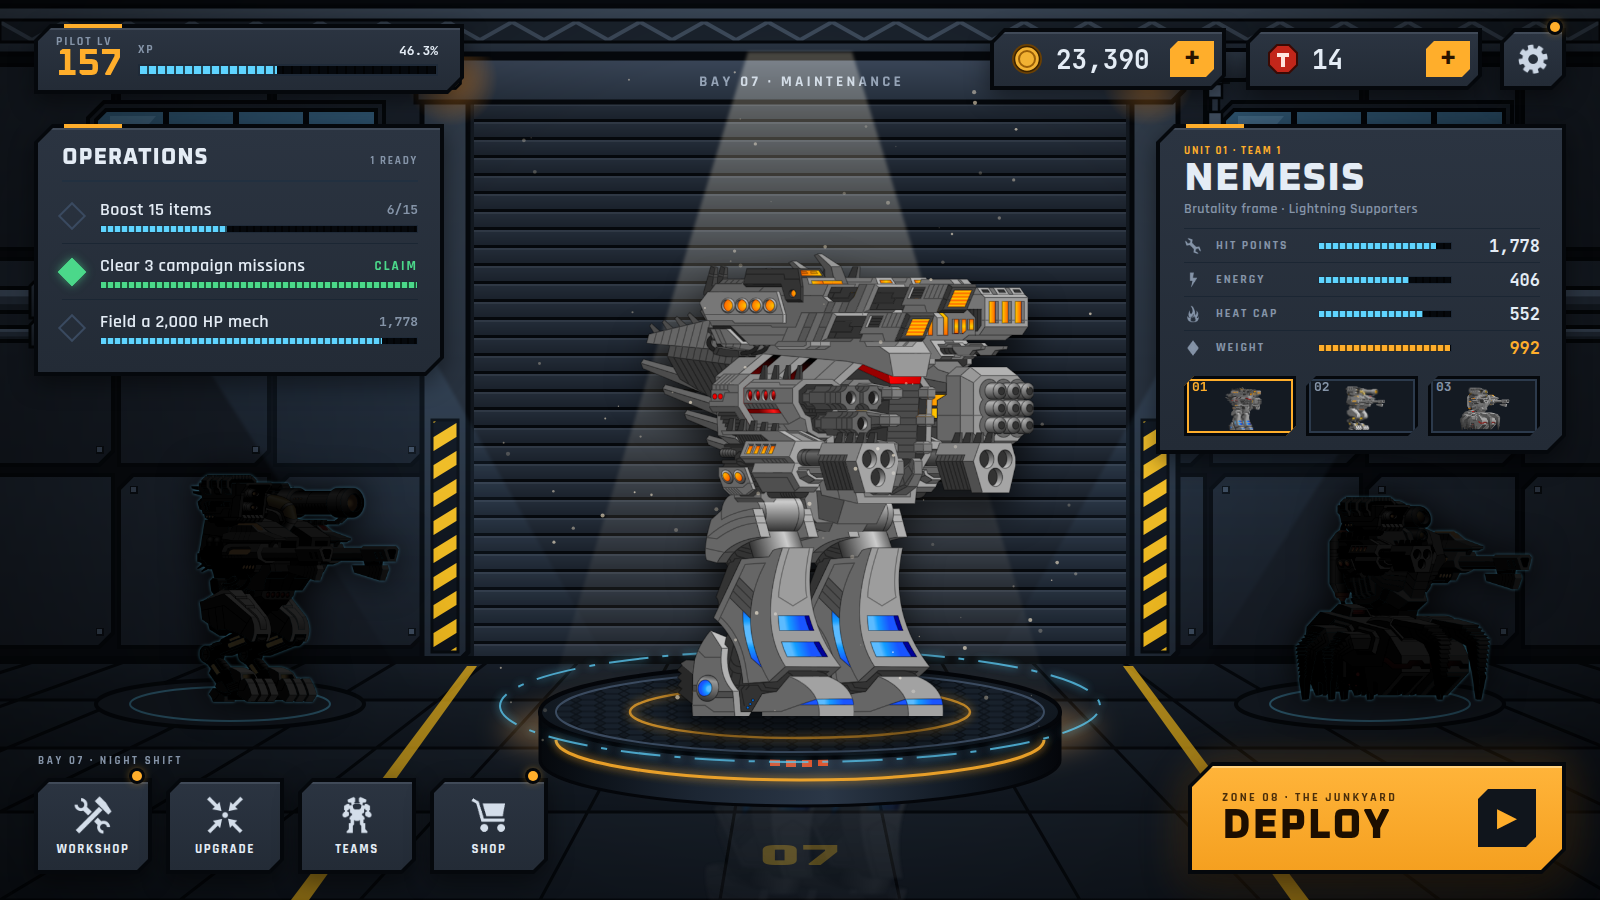
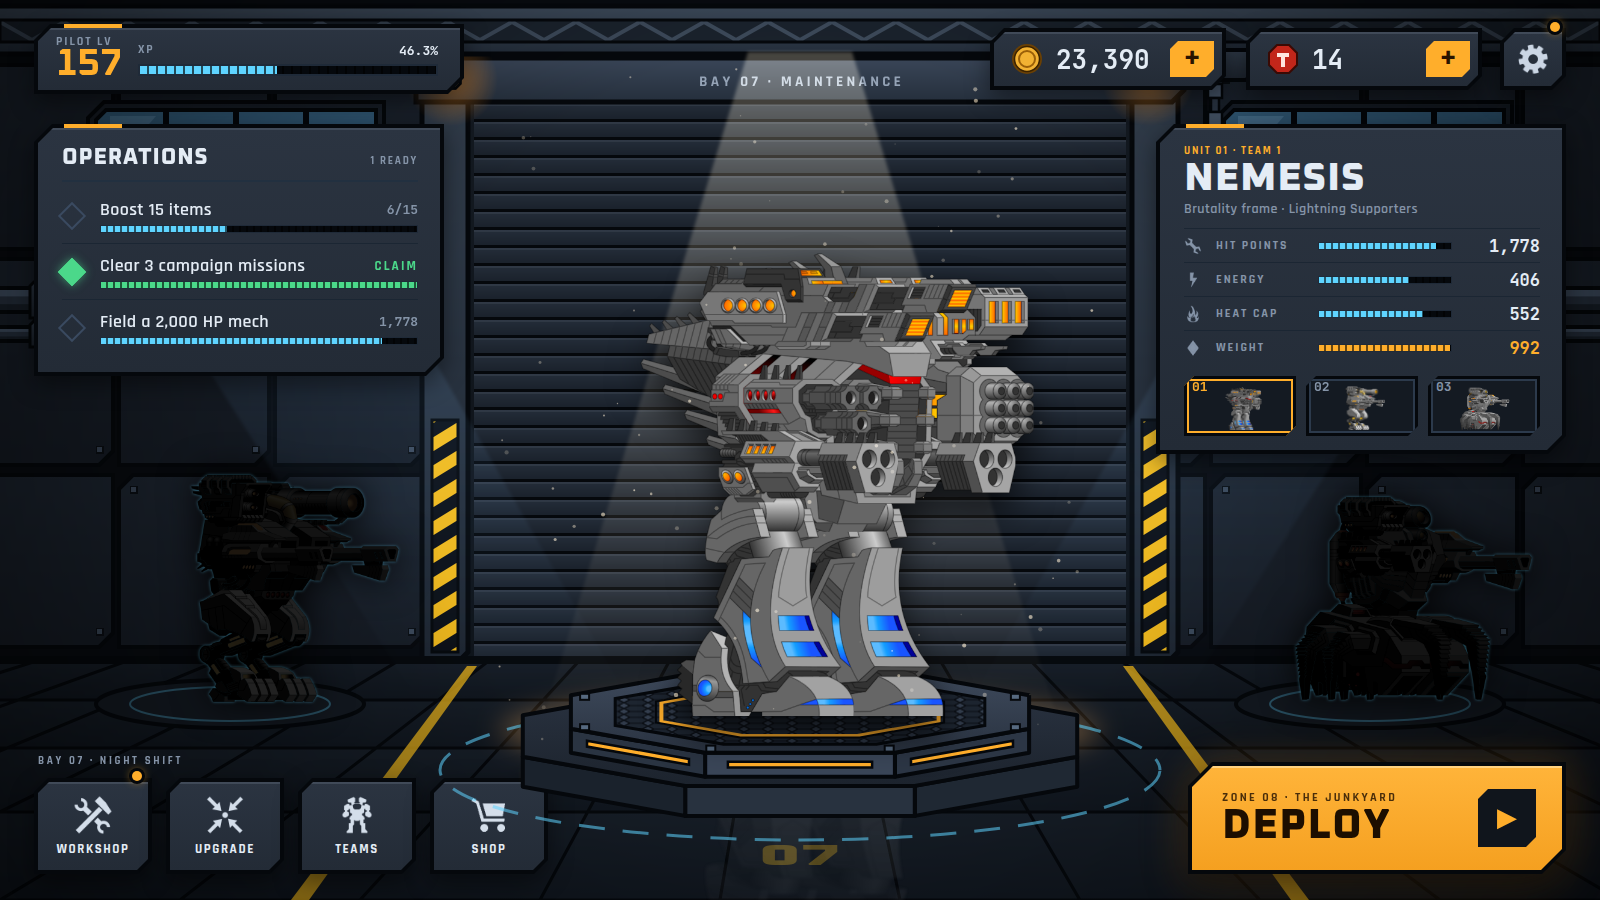
Rebuild the pedestal as flat faceted octagon tiers
Two outlined octagonal tiers with a separately shaded face per side, flat
amber light strips, hex tread and an octagonal amber ring; the scan ring now
sits on the floor behind the base.

Claude-Session: https://claude.ai/code/session_016EMeU7WbdybdkHaQ4QiAx5

Changed region(s): [[0.3125, 0.7156, 0.6875, 0.9333]]

diff --git a/ui/mocks/F-bay.html b/ui/mocks/F-bay.html
@@ -121,26 +121,34 @@ canvas{position:absolute;left:0;top:0;width:1600px;height:900px}
   <svg id="ped" width="1600" height="900" viewBox="0 0 1600 900">
     <defs>
       <pattern id="hex" width="24" height="14" patternUnits="userSpaceOnUse" patternTransform="scale(1,.42)">
-        <path d="M6 0h12l6 7-6 7H6L0 7z" fill="#18212c" stroke="#0a0f15" stroke-width="2"/>
+        <path d="M6 0h12l6 7-6 7H6L0 7z" fill="#1d2530" stroke="#0b0f15" stroke-width="2.5"/>
       </pattern>
-      <linearGradient id="side" x1="0" y1="0" x2="1" y2="0">
-        <stop offset="0" stop-color="#05080c"/><stop offset=".3" stop-color="#1c2633"/><stop offset=".55" stop-color="#2b3747"/><stop offset=".8" stop-color="#121a24"/><stop offset="1" stop-color="#04060a"/>
-      </linearGradient>
-      <radialGradient id="topg" cx=".5" cy=".4" r=".6"><stop offset="0" stop-color="#26303d"/><stop offset="1" stop-color="#0d131a"/></radialGradient>
-      <filter id="glow" x="-50%" y="-50%" width="200%" height="200%"><feGaussianBlur stdDeviation="4" result="b"/><feMerge><feMergeNode in="b"/><feMergeNode in="SourceGraphic"/></feMerge></filter>
+      <linearGradient id="ptop" x1="0" y1="0" x2="0" y2="1"><stop offset="0" stop-color="#3e4a5c"/><stop offset="1" stop-color="#2a3341"/></linearGradient>
+      <linearGradient id="ptop2" x1="0" y1="0" x2="0" y2="1"><stop offset="0" stop-color="#2a3341"/><stop offset="1" stop-color="#1c232d"/></linearGradient>
     </defs>
-    <!-- base -->
-    <path d="M540 712 L540 760 A260 46 0 0 0 1060 760 L1060 712 Z" fill="url(#side)" stroke="#04060a" stroke-width="3"/>
-    <path d="M556 740 A244 40 0 0 0 1044 740" fill="none" stroke="#ffae2b" stroke-width="3" opacity=".9" filter="url(#glow)"/>
-    <g opacity=".9">
-      <rect x="770" y="752" width="10" height="14" fill="#ff5a2a"/><rect x="786" y="753" width="10" height="14" fill="#ff5a2a"/><rect x="802" y="753" width="10" height="14" fill="#ff5a2a"/><rect x="818" y="752" width="10" height="14" fill="#ff5a2a"/>
-    </g>
-    <ellipse cx="800" cy="712" rx="260" ry="46" fill="url(#topg)" stroke="#04060a" stroke-width="4"/>
-    <ellipse cx="800" cy="712" rx="244" ry="40" fill="url(#hex)" opacity=".85"/>
-    <ellipse cx="800" cy="712" rx="244" ry="40" fill="none" stroke="#3b4b60" stroke-width="2"/>
-    <ellipse cx="800" cy="712" rx="170" ry="26" fill="none" stroke="#ffae2b" stroke-width="2.5" opacity=".75" filter="url(#glow)"/>
-    <!-- scan ring -->
-    <ellipse id="scan" cx="800" cy="706" rx="300" ry="56" fill="none" stroke="#5fd4ff" stroke-width="2" stroke-dasharray="40 14 6 14" opacity=".75" filter="url(#glow)"/>
+    <ellipse id="scan" cx="800" cy="770" rx="360" ry="70" fill="none" stroke="#5fd4ff" stroke-width="3" stroke-dasharray="26 18" opacity=".55"/>
+    <path d="M1077.2 756.7 L914.8 785.9 L914.8 815.9 L1077.2 786.7 Z" fill="#1f2833" stroke="#05080c" stroke-width="4" stroke-linejoin="round"/>
+    <path d="M914.8 785.9 L685.2 785.9 L685.2 815.9 L914.8 815.9 Z" fill="#28323f" stroke="#05080c" stroke-width="4" stroke-linejoin="round"/>
+    <path d="M685.2 785.9 L522.8 756.7 L522.8 786.7 L685.2 815.9 Z" fill="#1a222c" stroke="#05080c" stroke-width="4" stroke-linejoin="round"/>
+    <path d="M1077.2 756.7 L914.8 785.9 L685.2 785.9 L522.8 756.7 L522.8 715.3 L685.2 686.1 L914.8 686.1 L1077.2 715.3 Z" fill="url(#ptop2)" stroke="#05080c" stroke-width="4" stroke-linejoin="round"/>
+    <path d="M1029.1 728.8 L894.9 752.7 L894.9 776.7 L1029.1 752.8 Z" fill="#2c3645" stroke="#05080c" stroke-width="4" stroke-linejoin="round"/>
+    <path d="M1013.0 740.8 L911.0 758.9 L911.0 764.7 L1013.0 746.6 Z" fill="#ffae2b" stroke="#05080c" stroke-width="2.5"/>
+    <path d="M894.9 752.7 L705.1 752.7 L705.1 776.7 L894.9 776.7 Z" fill="#3a4658" stroke="#05080c" stroke-width="4" stroke-linejoin="round"/>
+    <path d="M872.1 761.8 L727.9 761.8 L727.9 767.5 L872.1 767.5 Z" fill="#ffae2b" stroke="#05080c" stroke-width="2.5"/>
+    <path d="M705.1 752.7 L570.9 728.8 L570.9 752.8 L705.1 776.7 Z" fill="#2a3442" stroke="#05080c" stroke-width="4" stroke-linejoin="round"/>
+    <path d="M689.0 758.9 L587.0 740.8 L587.0 746.6 L689.0 764.7 Z" fill="#ffae2b" stroke="#05080c" stroke-width="2.5"/>
+    <path d="M1029.1 728.8 L894.9 752.7 L705.1 752.7 L570.9 728.8 L570.9 695.2 L705.1 671.3 L894.9 671.3 L1029.1 695.2 Z" fill="url(#ptop)" stroke="#05080c" stroke-width="4" stroke-linejoin="round"/>
+    <path d="M984.8 725.4 L876.5 744.3 L723.5 744.3 L615.2 725.4 L615.2 698.6 L723.5 679.7 L876.5 679.7 L984.8 698.6 Z" fill="url(#hex)" stroke="#05080c" stroke-width="3"/>
+    <path d="M938.6 721.9 L857.4 736.0 L742.6 736.0 L661.4 721.9 L661.4 702.1 L742.6 688.0 L857.4 688.0 L938.6 702.1 Z" fill="none" stroke="#ffae2b" stroke-width="4"/>
+    <path d="M944.1 722.5 L859.7 737.4 L740.3 737.4 L655.9 722.5 L655.9 701.5 L740.3 686.6 L859.7 686.6 L944.1 701.5 Z" fill="none" stroke="#05080c" stroke-width="2"/>
+    <rect x="1010.9" y="724.2" width="9" height="6" fill="#56697f" stroke="#05080c" stroke-width="2"/>
+    <rect x="884.7" y="745.6" width="9" height="6" fill="#56697f" stroke="#05080c" stroke-width="2"/>
+    <rect x="706.3" y="745.6" width="9" height="6" fill="#56697f" stroke="#05080c" stroke-width="2"/>
+    <rect x="580.1" y="724.2" width="9" height="6" fill="#56697f" stroke="#05080c" stroke-width="2"/>
+    <rect x="580.1" y="693.8" width="9" height="6" fill="#56697f" stroke="#05080c" stroke-width="2"/>
+    <rect x="706.3" y="672.4" width="9" height="6" fill="#56697f" stroke="#05080c" stroke-width="2"/>
+    <rect x="884.7" y="672.4" width="9" height="6" fill="#56697f" stroke="#05080c" stroke-width="2"/>
+    <rect x="1010.9" y="693.8" width="9" height="6" fill="#56697f" stroke="#05080c" stroke-width="2"/>
   </svg>
   <div id="mech"></div>
   <canvas id="fx" width="1600" height="900"></canvas>
